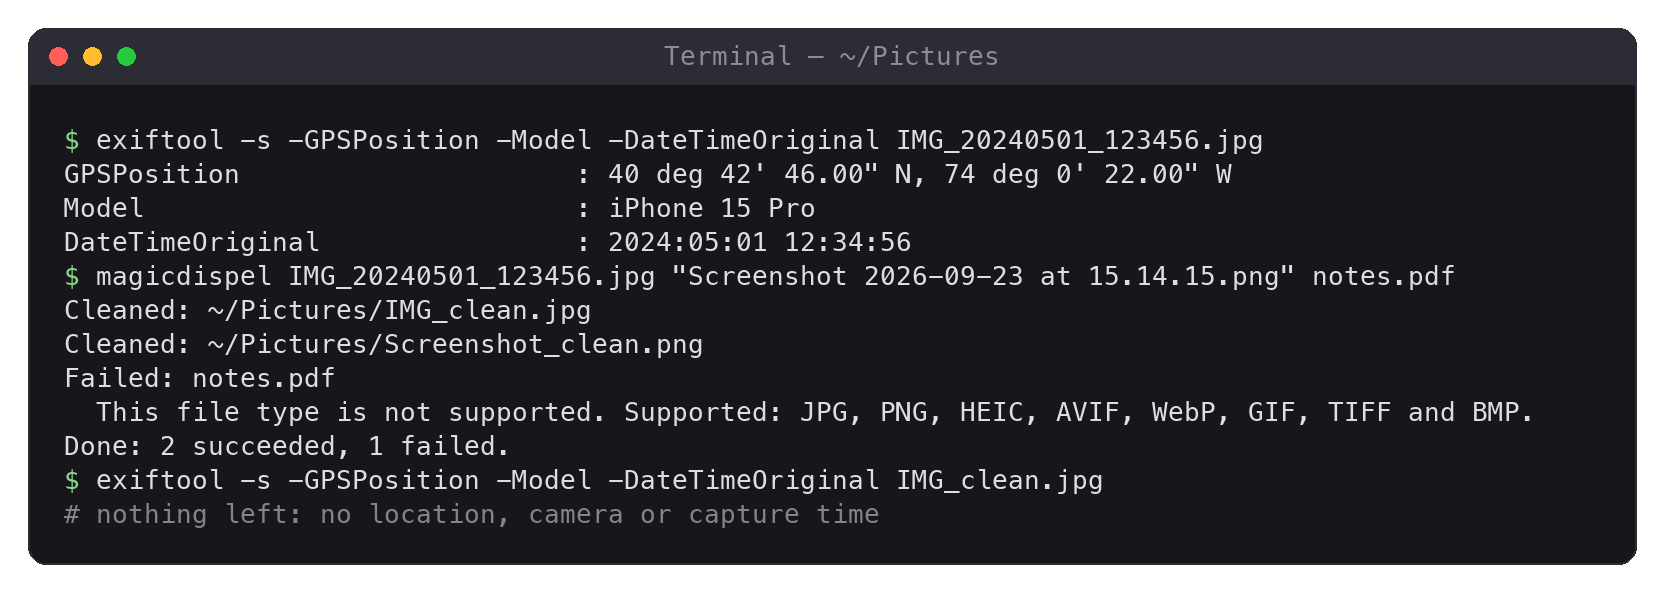
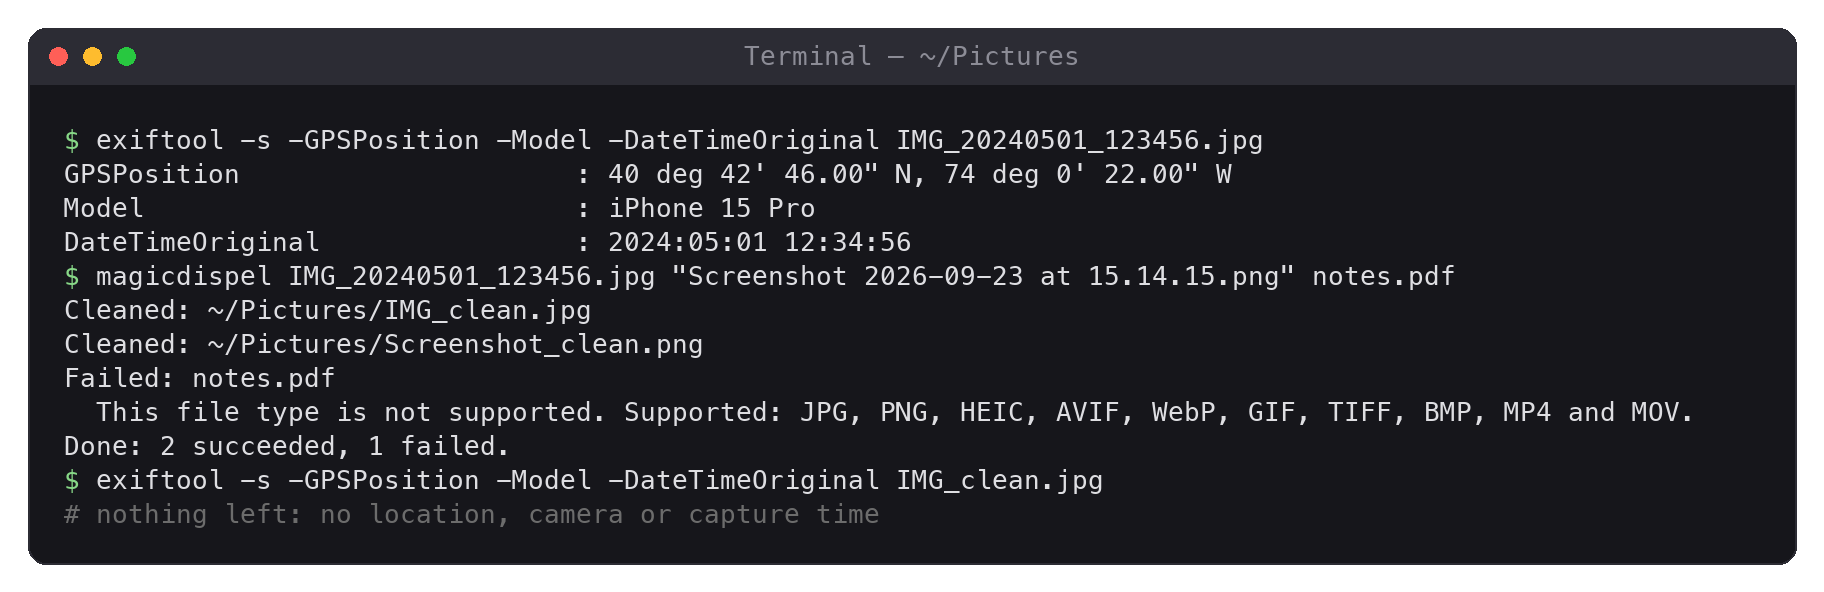
Regenerate the README's second picture and the social card, and write the measured numbers
The second picture is run for real now and lists MP4 and MOV among what is supported; the social
card says photos and videos, in the font and place it had. A 4.7 GB video takes about five seconds
and 40 MB of memory of its own, a JPEG of 200 megapixels about ten seconds and 1.4 GB, a PNG of
that size 3.5 GB.

diff --git a/README.md b/README.md
@@ -128,7 +128,8 @@ their description `Clean`, and device and creator fields, and reserved and vendo
 cleared. Images up to 268 megapixels are checked, enough for 200-megapixel phone photos;
 larger ones are refused, and so are animations (GIF, WebP, APNG, AVIF) on a canvas of more than
 64 megapixels, or of more than four gigapixels in all their frames. Checking takes memory in
-proportion: a 268-megapixel WebP needs about 4 GB.
+proportion: a 200-megapixel JPEG takes about 10 seconds and 1.4 GB, a PNG of that size 3.5 GB,
+and a 268-megapixel WebP needs about 4 GB.
 Videos are cleaned in a copy next to the original, mapped rather than read into memory: a
 4.7 GB video took about five seconds on an Apple-silicon Mac. Photos are read into memory
 whole, and a large GIF or PNG animation needs about five times its size. Fragmented and

diff --git a/docs/PRIVACY.md b/docs/PRIVACY.md
@@ -306,7 +306,7 @@ clean the same way, keeping their scene illuminance. It also holds 396 small fil
 tests with FFmpeg, macOS's avconvert, AVAssetWriter and ImageIO, and ExifTool, of every codec,
 container and muxer option they offer: all but those refused by design clean with identical
 frames and sound, and every clean copy cleans to itself. A 4.7 GB video was cleaned in about five
-seconds on an Apple-silicon Mac, using about 25 MB of memory of its own: the video is mapped, so
+seconds on an Apple-silicon Mac, using about 40 MB of memory of its own: the video is mapped, so
 the system's file cache is not counted.
 
 For 0.2.3 a new audit read the code and tried to break it. Besides the unit tests, 330,000

diff --git a/CHANGELOG.md b/CHANGELOG.md
@@ -105,7 +105,8 @@ Also:
 
 Known limits: a video's metadata box of fewer than 157 bytes, or of 158 to 164, has no room for
 the playback intent, which then goes with the rest; a WebP of 268 megapixels takes about 4 GB to
-check; a GIF or PNG animation takes about five times its size in memory.
+check, and a PNG of 200 megapixels 3.5 GB; a GIF or PNG animation takes about five times its
+size in memory.
 
 ## 0.2.2 (2026-09-26)
 
